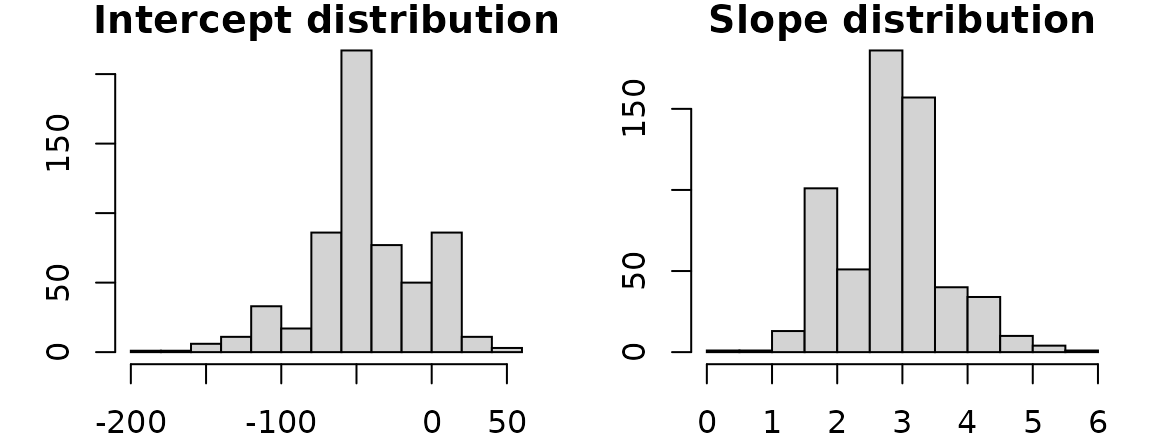
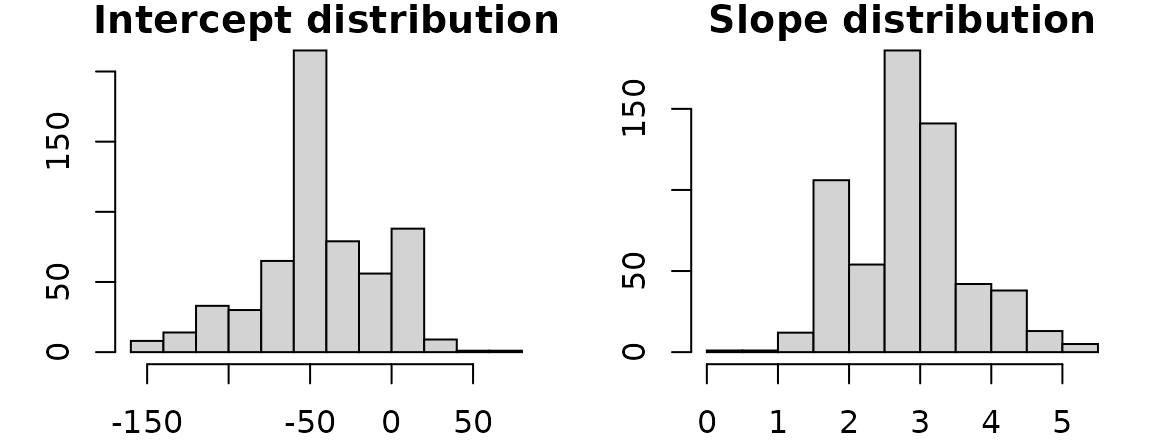
Built site for tukeyedar: 0.1.0@ab168f3

diff --git a/index.html b/index.html
@@ -5,14 +5,14 @@
 <meta charset="utf-8">
 <meta http-equiv="X-UA-Compatible" content="IE=edge">
 <meta name="viewport" content="width=device-width, initial-scale=1.0">
-<title>Tukey inspired exploratory data analysis functions • tukeyedar</title>
+<title>Tukey Inspired Exploratory Data Analysis Functions • tukeyedar</title>
 <!-- jquery --><script src="https://cdnjs.cloudflare.com/ajax/libs/jquery/3.4.1/jquery.min.js" integrity="sha256-CSXorXvZcTkaix6Yvo6HppcZGetbYMGWSFlBw8HfCJo=" crossorigin="anonymous"></script><!-- Bootstrap --><link rel="stylesheet" href="https://cdnjs.cloudflare.com/ajax/libs/twitter-bootstrap/3.4.1/css/bootstrap.min.css" integrity="sha256-bZLfwXAP04zRMK2BjiO8iu9pf4FbLqX6zitd+tIvLhE=" crossorigin="anonymous">
 <script src="https://cdnjs.cloudflare.com/ajax/libs/twitter-bootstrap/3.4.1/js/bootstrap.min.js" integrity="sha256-nuL8/2cJ5NDSSwnKD8VqreErSWHtnEP9E7AySL+1ev4=" crossorigin="anonymous"></script><!-- bootstrap-toc --><link rel="stylesheet" href="bootstrap-toc.css">
 <script src="bootstrap-toc.js"></script><!-- Font Awesome icons --><link rel="stylesheet" href="https://cdnjs.cloudflare.com/ajax/libs/font-awesome/5.12.1/css/all.min.css" integrity="sha256-mmgLkCYLUQbXn0B1SRqzHar6dCnv9oZFPEC1g1cwlkk=" crossorigin="anonymous">
 <link rel="stylesheet" href="https://cdnjs.cloudflare.com/ajax/libs/font-awesome/5.12.1/css/v4-shims.min.css" integrity="sha256-wZjR52fzng1pJHwx4aV2AO3yyTOXrcDW7jBpJtTwVxw=" crossorigin="anonymous">
 <!-- clipboard.js --><script src="https://cdnjs.cloudflare.com/ajax/libs/clipboard.js/2.0.6/clipboard.min.js" integrity="sha256-inc5kl9MA1hkeYUt+EC3BhlIgyp/2jDIyBLS6k3UxPI=" crossorigin="anonymous"></script><!-- headroom.js --><script src="https://cdnjs.cloudflare.com/ajax/libs/headroom/0.11.0/headroom.min.js" integrity="sha256-AsUX4SJE1+yuDu5+mAVzJbuYNPHj/WroHuZ8Ir/CkE0=" crossorigin="anonymous"></script><script src="https://cdnjs.cloudflare.com/ajax/libs/headroom/0.11.0/jQuery.headroom.min.js" integrity="sha256-ZX/yNShbjqsohH1k95liqY9Gd8uOiE1S4vZc+9KQ1K4=" crossorigin="anonymous"></script><!-- pkgdown --><link href="pkgdown.css" rel="stylesheet">
-<script src="pkgdown.js"></script><meta property="og:title" content="Tukey inspired exploratory data analysis functions">
-<meta property="og:description" content="This packages hosts a small set of Tukey inspired functions for use in exploring datasets in a robust manner.">
+<script src="pkgdown.js"></script><meta property="og:title" content="Tukey Inspired Exploratory Data Analysis Functions">
+<meta property="og:description" content="A set of Tukey inspired functions for use in exploring datasets in a robust manner.">
 <!-- mathjax --><script src="https://cdnjs.cloudflare.com/ajax/libs/mathjax/2.7.5/MathJax.js" integrity="sha256-nvJJv9wWKEm88qvoQl9ekL2J+k/RWIsaSScxxlsrv8k=" crossorigin="anonymous"></script><script src="https://cdnjs.cloudflare.com/ajax/libs/mathjax/2.7.5/config/TeX-AMS-MML_HTMLorMML.js" integrity="sha256-84DKXVJXs0/F8OTMzX4UR909+jtl4G7SPypPavF+GfA=" crossorigin="anonymous"></script><!--[if lt IE 9]>
 <script src="https://oss.maxcdn.com/html5shiv/3.7.3/html5shiv.min.js"></script>
 <script src="https://oss.maxcdn.com/respond/1.4.2/respond.min.js"></script>
@@ -185,7 +185,7 @@
 <a href="#using-the-functions" class="anchor"></a>Using the functions</h2>
 <p>All functions start with <code>eda_</code>. For example, to generate a three point summary plot of the <code>mpg</code> vs. <code>disp</code> from the <code>mtcars</code> dataset, type:</p>
 <div class="sourceCode" id="cb4"><pre class="downlit sourceCode r">
-<code class="sourceCode R"><span class="kw"><a href="https://rdrr.io/r/base/library.html">library</a></span><span class="op">(</span><span class="va"><a href="https://mgimond.github.io/tukeyedar">tukeyedar</a></span><span class="op">)</span>
+<code class="sourceCode R"><span class="kw"><a href="https://rdrr.io/r/base/library.html">library</a></span><span class="op">(</span><span class="va"><a href="https://mgimond.github.io/tukeyedar/">tukeyedar</a></span><span class="op">)</span>
 <span class="fu"><a href="reference/eda_3pt.html">eda_3pt</a></span><span class="op">(</span><span class="va">mtcars</span>, <span class="va">disp</span>, <span class="va">mpg</span><span class="op">)</span></code></pre></div>
 <p><img src="README-unnamed-chunk-5-1.png"><!-- --></p>
 <div class="sourceCode" id="cb5"><pre class="sourceCode R"><code class="sourceCode r"><span id="cb5-1"><a href="#cb5-1"></a><span class="co">#&gt; $slope1</span></span>
@@ -233,7 +233,7 @@
 <ul class="list-unstyled">
 <li>Browse source code at <br><a href="https://github.com/mgimond/tukeyedar/">https://github.com/mgimond/tukeyedar/</a>
 </li>
-<li>Report a bug at <br><a href="https://github.com/mgimond/tukeyedar/issues">https://github.com/mgimond/tukeyedar/issues</a>
+<li>Report a bug at <br><a href="https://github.com/mgimond/tukeyedar/issues/">https://github.com/mgimond/tukeyedar/issues/</a>
 </li>
 </ul>
 </div>

diff --git a/articles/RLine.html b/articles/RLine.html
@@ -287,8 +287,8 @@ median(y_{l,m,r} - b * x_{l,m,r})
                      Slope <span class="op">=</span> <span class="fu"><a href="https://rdrr.io/r/stats/quantile.html">quantile</a></span><span class="op">(</span><span class="va">bt</span><span class="op">[</span>,<span class="fl">2</span><span class="op">]</span>, p<span class="op">=</span><span class="fu"><a href="https://rdrr.io/r/base/c.html">c</a></span><span class="op">(</span><span class="fl">0.05</span>,<span class="fl">0.95</span><span class="op">)</span> <span class="op">)</span><span class="op">)</span><span class="op">)</span>
 <span class="va">conf</span>
 <span class="co">#&gt;                    5%       95%</span>
-<span class="co">#&gt;  Intercept -76.274033 12.144447</span>
-<span class="co">#&gt;  Slope       1.631718  3.536082</span></code></pre></div>
+<span class="co">#&gt;  Intercept -73.827917 10.376778</span>
+<span class="co">#&gt;  Slope       1.705755  3.502802</span></code></pre></div>
 </div>
 <div id="resampling-the-x-y-paired-values" class="section level3">
 <h3 class="hasAnchor">
@@ -314,8 +314,8 @@ median(y_{l,m,r} - b * x_{l,m,r})
                      Slope <span class="op">=</span> <span class="fu"><a href="https://rdrr.io/r/stats/quantile.html">quantile</a></span><span class="op">(</span><span class="va">bt</span><span class="op">[</span>,<span class="fl">2</span><span class="op">]</span>, p<span class="op">=</span><span class="fu"><a href="https://rdrr.io/r/base/c.html">c</a></span><span class="op">(</span><span class="fl">0.05</span>,<span class="fl">0.95</span><span class="op">)</span> <span class="op">)</span><span class="op">)</span><span class="op">)</span>
 <span class="va">conf</span>
 <span class="co">#&gt;                     5%       95%</span>
-<span class="co">#&gt;  Intercept -112.630574 15.023103</span>
-<span class="co">#&gt;  Slope        1.643678  4.254098</span></code></pre></div>
+<span class="co">#&gt;  Intercept -116.523077 12.801293</span>
+<span class="co">#&gt;  Slope        1.643678  4.338462</span></code></pre></div>
 </div>
 </div>
 <div id="references" class="section level1">

diff --git a/articles/Introduction.html b/articles/Introduction.html
@@ -164,7 +164,7 @@
 </table>
 <p>To access these functions, ensure that <code>tukeyedar</code> is properly loaded:</p>
 <div class="sourceCode" id="cb1"><pre class="downlit sourceCode r">
-<code class="sourceCode R"><span class="kw"><a href="https://rdrr.io/r/base/library.html">library</a></span><span class="op">(</span><span class="va"><a href="https://mgimond.github.io/tukeyedar">tukeyedar</a></span><span class="op">)</span></code></pre></div>
+<code class="sourceCode R"><span class="kw"><a href="https://rdrr.io/r/base/library.html">library</a></span><span class="op">(</span><span class="va"><a href="https://mgimond.github.io/tukeyedar/">tukeyedar</a></span><span class="op">)</span></code></pre></div>
 <p>A brief description and examples of each function is presented next.</p>
 </div>
 <div id="eda_boxls" class="section level2">
